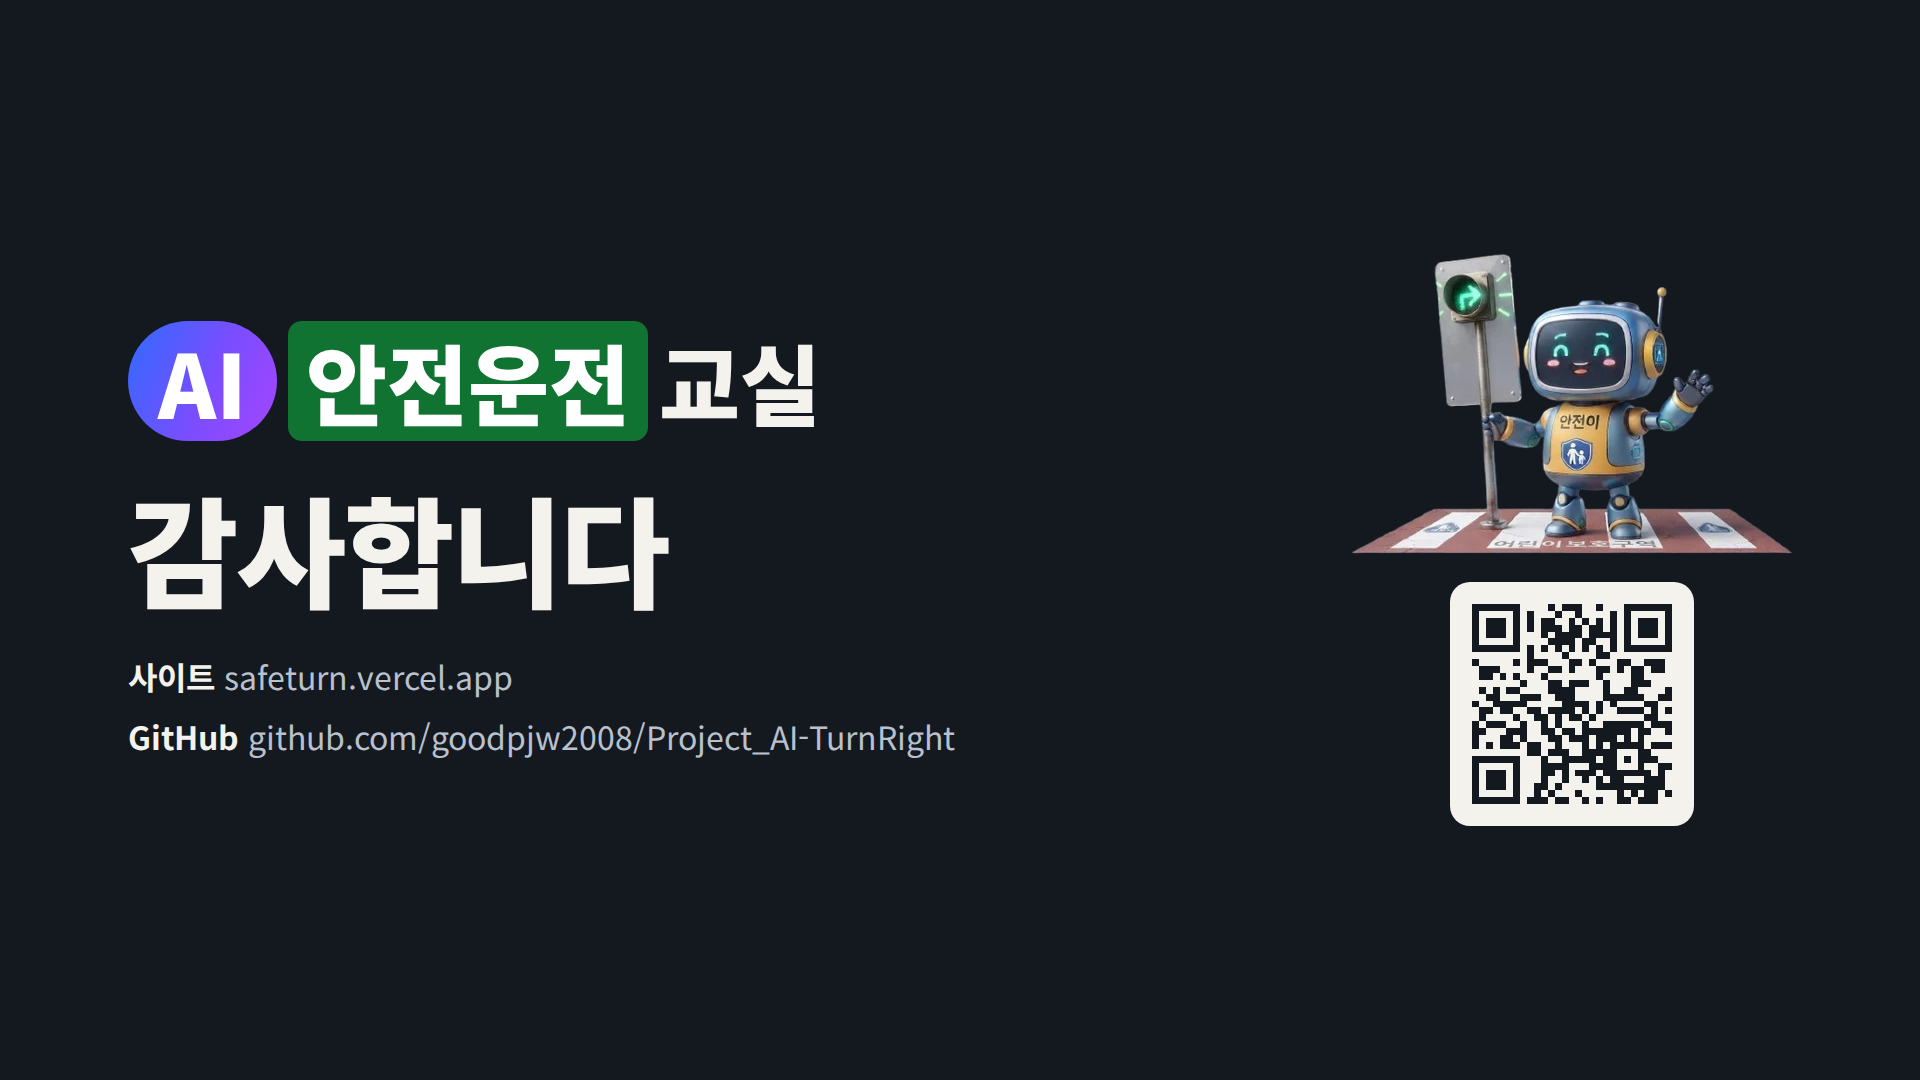
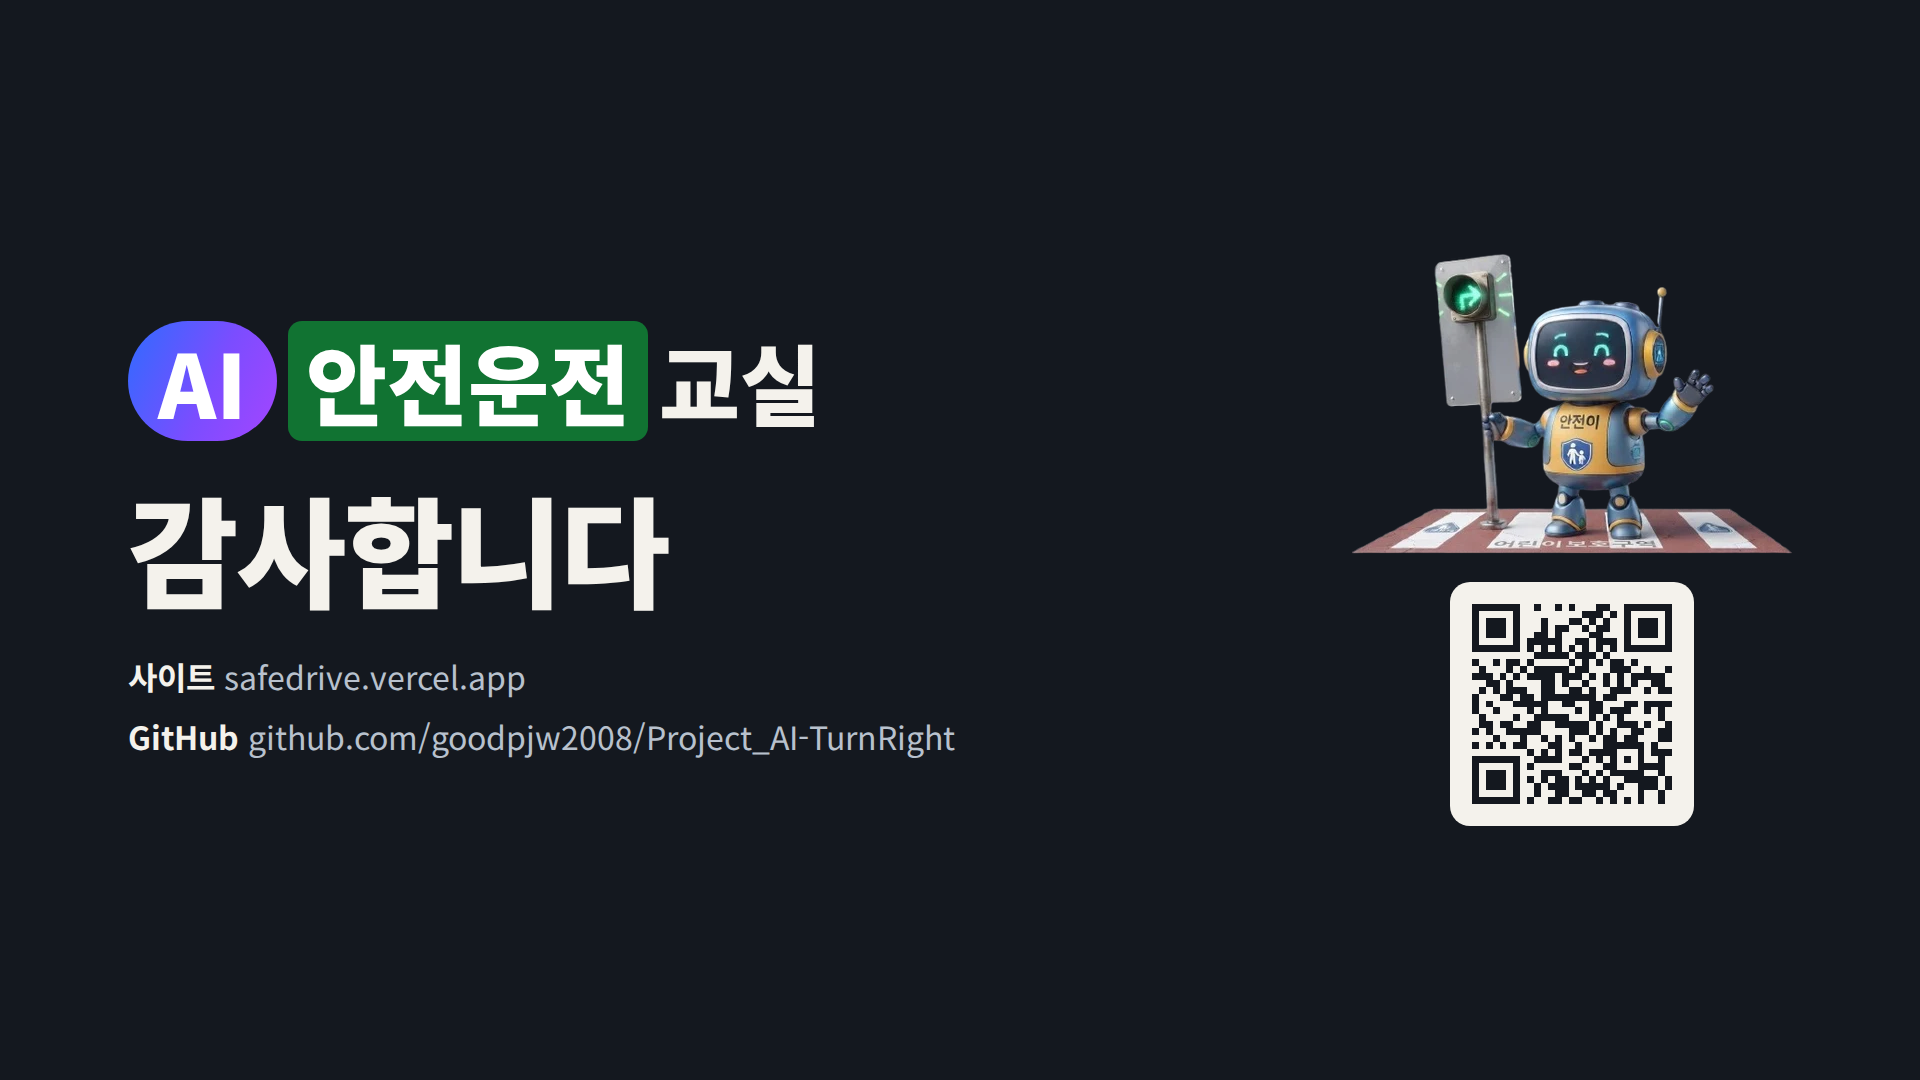
서비스 주소를 safedrive.vercel.app 으로 바꾼다
사용자가 정했다. 작품 이름이 '우회전' 에서 '안전운전' 으로 바뀐 것을 주소도
따라간다.

- 글자 파일 — README · LICENSE · THIRD_PARTY_NOTICES · 포트폴리오 넘겨 보기
  페이지 · vite.config 주석.
- 장표 그림 — 들어가며(02) · 온라인 활용(22) · 마무리(25) 는 원본을 고쳐 다시
  뽑았다. 표지(01)는 원본이 이름을 바꾸기 전 것이라, 주소 줄만 같은 모양으로
  다시 그려 얹었다 (둘레가 한 색이라 이음매가 없다).
- 마무리 장표의 QR 코드를 새 주소로 다시 만든다. 자리 크기를 지키려고 같은
  29x29(버전 3)로 두고, 장표에 들어간 표가 라이브러리가 낸 표와 한 칸도
  다르지 않은지 대조했다.
- README 슬라이드쇼(webp)도 다시 만든다.

포트폴리오 파일 이름(AI_safeturn_portfolio.html)은 그대로 둔다 — 이미 알려진
주소라 바꾸면 지금까지 건네 둔 링크가 끊어진다. CHANGELOG 0.5.0 절의 예전
주소도 그때의 기록이라 그대로 둔다.

**주소는 Vercel 에서 프로젝트 이름을 바꿔야 실제로 살아난다** — 이 커밋은
저장소가 새 주소를 가리키게 할 뿐이다.

Changed region(s): [[0.75, 0.55, 0.875, 0.7639], [0.1562, 0.6111, 0.2812, 0.6417]]

diff --git a/AI_safeturn_portfolio.html b/AI_safeturn_portfolio.html
@@ -220,7 +220,7 @@
 <body>
 
 <header class="top">
-  <a class="brand" href="https://safeturn.vercel.app" aria-label="AI 안전운전 교실 — 사이트로 가기">
+  <a class="brand" href="https://safedrive.vercel.app" aria-label="AI 안전운전 교실 — 사이트로 가기">
     <span class="ai">AI</span><span class="t g">안전운전</span><span class="rest">교실</span>
     <small>포트폴리오</small>
   </a>
@@ -233,7 +233,7 @@
     <button type="button" data-chapter="마무리">마무리</button>
   </nav>
   <div class="links">
-    <a href="https://safeturn.vercel.app" target="_blank" rel="noopener">
+    <a href="https://safedrive.vercel.app" target="_blank" rel="noopener">
       <svg class="ico" viewBox="0 0 24 24" fill="none" stroke="currentColor" stroke-width="2" stroke-linecap="round" stroke-linejoin="round" aria-hidden="true"><circle cx="12" cy="12" r="10"/><path d="M12 2a14.5 14.5 0 0 0 0 20 14.5 14.5 0 0 0 0-20"/><path d="M2 12h20"/></svg>
       <span class="txt">연습하러 가기</span><span class="sr">(새 창)</span>
     </a>
@@ -343,7 +343,7 @@
     </section>
 
     <section class="slide" data-chapter="마무리" data-title="감사합니다">
-      <img src="docs/slides/25-closing.png" alt="감사합니다 — 사이트 safeturn.vercel.app, GitHub github.com/goodpjw2008/Project_AI-TurnRight" loading="lazy" decoding="async">
+      <img src="docs/slides/25-closing.png" alt="감사합니다 — 사이트 safedrive.vercel.app, GitHub github.com/goodpjw2008/Project_AI-TurnRight" loading="lazy" decoding="async">
     </section>
   </div>
 

diff --git a/vite.config.ts b/vite.config.ts
@@ -79,7 +79,7 @@ const IMAGE_TYPES: Record<string, string> = {
  *
  * 페이지는 **저장소 맨 위**에 둔다 — GitHub 에서 README 옆에 바로 보이고, 저장소를 내려받아 두 번 누르면
  * 그림(docs/slides/…)을 상대 경로로 찾아 그대로 열린다. 그런데 GitHub 는 HTML 을 그려 주지 않고 소스만
- * 보여 주므로, 누르면 바로 넘겨 볼 수 있게 safeturn.vercel.app/AI_safeturn_portfolio.html 에도 올린다.
+ * 보여 주므로, 누르면 바로 넘겨 볼 수 있게 safedrive.vercel.app/AI_safeturn_portfolio.html 에도 올린다.
  *
  * public/ 으로 옮기지 않는 이유: 저장소 맨 위에서 사라지고, 그림도 public/ 에 한 벌 더 두어야 한다.
  * 그래서 빌드 때 **페이지가 부르는 그림만** 골라 같은 경로로 dist 에 내보낸다 — 그림 목록은 페이지 한 곳에만 있어,

diff --git a/CHANGELOG.md b/CHANGELOG.md
@@ -34,7 +34,7 @@
   - **성장 6개** (첫 걸음 · 습관 교정가 · 스쿨존 첫 완주 · 상황 탐험가 · 앞차 판단가 · 우회전 마스터): 한 번 해내면 잃지 않습니다.
   - 결과 화면에 이번 판에 얻거나 잃은 뱃지가 까닭과 함께 뜨고, 첫 화면의 '뱃지 N / 14' 를 누르면 모든 뱃지와 남은 횟수를 볼 수 있습니다. 직접 운전한 판만 세고(자율 주행 · 맵 체험 제외), 이미 달린 기록으로 처음 뱃지를 채워 줍니다.
 - 나쁜 운전 습관이 여럿이면 **먼저 고칠 습관을 AI가 정합니다** — 많이 한 순서만이 아니라 최근 주행에서 이어 나오는지, 지점별 준수율, 보행자 · 어린이가 걸린 위험한 습관인지를 보고 정합니다. 추천 결과 카드에 "먼저 고칠 습관 (AI 판단)" 이 뜹니다. 고른 코스는 여전히 그 습관을 시험하는 검증된 코스 안에서만 나옵니다.
-- **포트폴리오 넘겨 보기 페이지** — README의 포트폴리오 장표를 발표하듯 한 장씩 넘겨 봅니다: https://safeturn.vercel.app/AI_safeturn_portfolio.html (저장소의 `AI_safeturn_portfolio.html`). 방향키 · 스페이스 · 손가락으로 밀기로 넘기고, 장 바로 가기 · 전체 장표 목록 · 전체 화면을 지원합니다. 주소 끝의 `#8` 처럼 장 번호로 바로 열 수 있습니다.
+- **포트폴리오 넘겨 보기 페이지** — README의 포트폴리오 장표를 발표하듯 한 장씩 넘겨 봅니다: https://safedrive.vercel.app/AI_safeturn_portfolio.html (저장소의 `AI_safeturn_portfolio.html`). 방향키 · 스페이스 · 손가락으로 밀기로 넘기고, 장 바로 가기 · 전체 장표 목록 · 전체 화면을 지원합니다. 주소 끝의 `#8` 처럼 장 번호로 바로 열 수 있습니다.
 
 ### 고침
 
@@ -67,6 +67,10 @@
 - 진입로 어린이보호구역 횡단보도의 **보행자가 교차로 신호를 보고 건너던 것**을 고쳤습니다. 보호구역 신호기는 교차로와 따로 도는데, 게임 화면 쪽 코드만 둘을 하나로 보고 있었습니다(검증기는 처음부터 제 신호를 봤습니다). 보호구역 횡단보도에 사람이 서는 174개 판에서 사람이 건너는 때가 실제 신호와 맞습니다.
 
 ### 변경
+
+- **서비스 주소가 바뀌었습니다 — `safeturn.vercel.app` → `safedrive.vercel.app`** (사용자가 정했습니다). 작품 이름이 '우회전' 에서 '안전운전' 으로 바뀐 것을 주소도 따라갑니다. README · LICENSE · 포트폴리오 넘겨 보기 페이지 · 장표 그림(표지 · 들어가며 · 온라인 활용 · 마무리)의 주소를 모두 바꿨고, **마무리 장표의 QR 코드도 새 주소로 다시 만들었습니다.**
+  - 포트폴리오 파일 이름(`AI_safeturn_portfolio.html`)은 그대로 둡니다 — 이미 알려진 주소라 바꾸면 지금까지 건네 둔 링크가 끊어집니다.
+  - 0.5.0 절에 적힌 예전 주소는 **그때의 기록**이라 그대로 둡니다.
 
 - **라이선스를 '모든 권리 보유 — 사용 시 허락' 으로 바꿨습니다.** 사용자가 정했습니다. 자체 작성 코드는 MIT License, 로봇 캐릭터 그림과 README 의 글 · 그림은 CC BY 4.0 이었는데, 둘 다 **먼저 허락을 받고 쓰는 조건**으로 바뀝니다 ([LICENSE](LICENSE)).
   - **허락 없이 해도 되는 것** — 저장소를 열람하고 코드를 읽는 것, 서비스 주소에서 직접 연습해 보는 것, 출처를 밝히고 소개 · 인용 · 비평하는 것(저작권법 제28조).

diff --git a/README.md b/README.md
@@ -11,16 +11,16 @@
 
 AI를 통해서 안전한 도로가 되었으면 좋겠습니다. 아래 주소로 접속해서 안전운전을 연습해봐요.
 
-* 서비스 주소 : https://safeturn.vercel.app
-* 포트폴리오 : https://safeturn.vercel.app/AI_safeturn_portfolio.html
+* 서비스 주소 : https://safedrive.vercel.app
+* 포트폴리오 : https://safedrive.vercel.app/AI_safeturn_portfolio.html
 
-<a href="https://safeturn.vercel.app/AI_safeturn_portfolio.html"><img src="docs/portfolio-slideshow.webp" alt="AI 안전운전 교실 포트폴리오 — 장표 22장이 저절로 넘어갑니다" width="880"></a>
+<a href="https://safedrive.vercel.app/AI_safeturn_portfolio.html"><img src="docs/portfolio-slideshow.webp" alt="AI 안전운전 교실 포트폴리오 — 장표 22장이 저절로 넘어갑니다" width="880"></a>
 
 ---
 
 ※ 라이선스 — © 2026 goodpjw2008 · **모든 권리 보유**
 
-읽어 보시는 것과 [서비스 주소](https://safeturn.vercel.app)에서 직접 연습해 보시는 것은 자유입니다. 그 밖의 사용(복사 · 수정 · 재배포 · 다른 곳에 싣기)은 영리 · 비영리를 가리지 않고 **먼저 허락**을 받아 주세요.
+읽어 보시는 것과 [서비스 주소](https://safedrive.vercel.app)에서 직접 연습해 보시는 것은 자유입니다. 그 밖의 사용(복사 · 수정 · 재배포 · 다른 곳에 싣기)은 영리 · 비영리를 가리지 않고 **먼저 허락**을 받아 주세요.
 
 막으려고 두는 조건이 아닙니다. 다만 무분별한 복제가 흔한 일이 되어, 형식적이더라도 **허락을 구하는 절차**는 필요하다고 생각합니다. 고등학생이 혼자 만든 것이라 어디에 어떻게 쓰이는지 정도는 알고 있고 싶습니다. **사용은 대부분 흔쾌히 허락 드립니다 — 무엇에 쓰실지만 알려 주세요.** 수업이나 연구에 쓰시겠다면 더욱 반갑습니다. (goodpjw2008@gmail.com · 자세한 조건은 [LICENSE](LICENSE))
 

diff --git a/THIRD_PARTY_NOTICES.md b/THIRD_PARTY_NOTICES.md
@@ -4,7 +4,7 @@
 
 > **참고**: 본 프로젝트의 자체 작성 코드 · 로봇 캐릭터 그림 · README 의 글과 그림은 **모든 권리 보유**이며, 사용하려면 먼저 허락을 받아야 합니다 ([LICENSE](LICENSE)). 아래의 제3자 자산은 **각 원작자의 라이선스**를 그대로 따르며, LICENSE 가 무엇을 정하든 그 조건대로 써야 합니다.
 >
-> 3D 자동차 모델 중 4종(아반떼 N · M8 · M5 · SL63)은 **비영리(NC)** 조건입니다. 이 모델이 들어 있는 배포 사이트(https://safeturn.vercel.app)는 비영리로만 운영합니다. 이 저장소를 상업적으로 쓰려면 해당 모델 파일과 그 차 사진을 빼야 합니다.
+> 3D 자동차 모델 중 4종(아반떼 N · M8 · M5 · SL63)은 **비영리(NC)** 조건입니다. 이 모델이 들어 있는 배포 사이트(https://safedrive.vercel.app)는 비영리로만 운영합니다. 이 저장소를 상업적으로 쓰려면 해당 모델 파일과 그 차 사진을 빼야 합니다.
 
 ---
 
